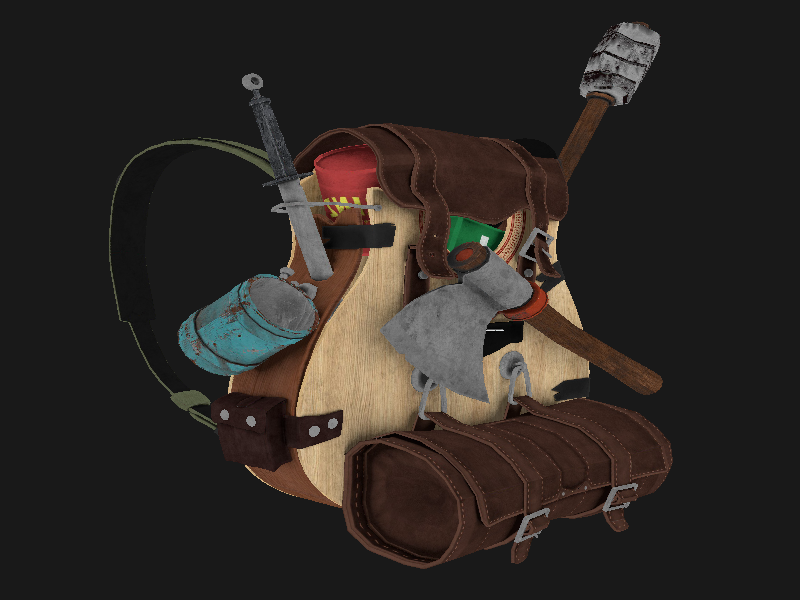
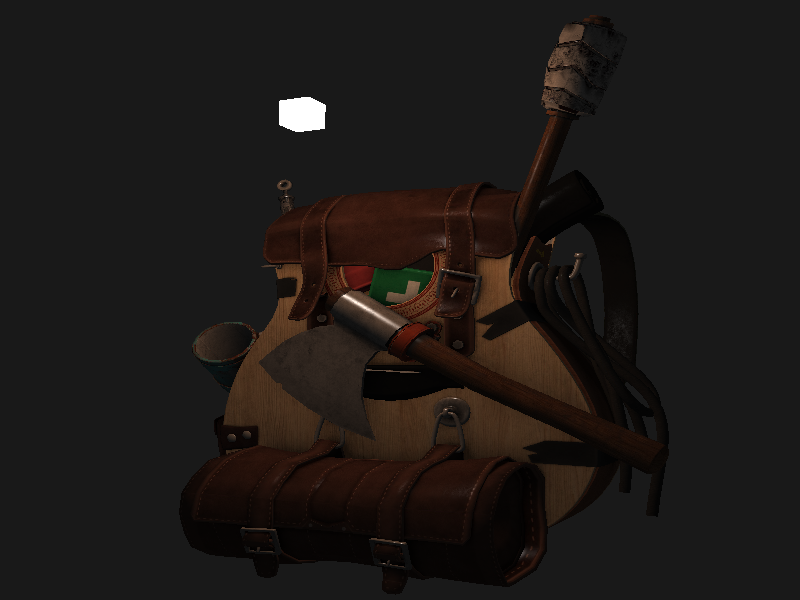
adds light to model scene

Changed region(s): [[0.1875, 0.03, 0.8438, 0.96], [0.3125, 0.87, 0.3438, 0.9], [0.1562, 0.24, 0.1875, 0.27]]

diff --git a/internal/scenes/model_loading.go b/internal/scenes/model_loading.go
@@ -3,6 +3,7 @@ package scenes
 import (
 	"fmt"
 	"log"
+	"math"
 
 	"github.com/go-gl/gl/v4.1-core/gl"
 	"github.com/go-gl/glfw/v3.3/glfw"
@@ -84,9 +85,74 @@ func (s ModelLoading) Show() {
 		panic(err)
 	}
 
+	lightCubeShader, err := shader.New("internal/assets/shaders/light_colors_cube.vert", "internal/assets/shaders/light_colors_cube.frag")
+	if err != nil {
+		panic(err)
+	}
+
+	var vertices = []float32{
+		// x y z          normals         texture coords
+		-0.5, -0.5, -0.5, 0.0, 0.0, -1.0, 0.0, 0.0,
+		0.5, -0.5, -0.5, 0.0, 0.0, -1.0, 1.0, 0.0,
+		0.5, 0.5, -0.5, 0.0, 0.0, -1.0, 1.0, 1.0,
+		0.5, 0.5, -0.5, 0.0, 0.0, -1.0, 1.0, 1.0,
+		-0.5, 0.5, -0.5, 0.0, 0.0, -1.0, 0.0, 1.0,
+		-0.5, -0.5, -0.5, 0.0, 0.0, -1.0, 0.0, 0.0,
+
+		-0.5, -0.5, 0.5, 0.0, 0.0, 1.0, 0.0, 0.0,
+		0.5, -0.5, 0.5, 0.0, 0.0, 1.0, 1.0, 0.0,
+		0.5, 0.5, 0.5, 0.0, 0.0, 1.0, 1.0, 1.0,
+		0.5, 0.5, 0.5, 0.0, 0.0, 1.0, 1.0, 1.0,
+		-0.5, 0.5, 0.5, 0.0, 0.0, 1.0, 0.0, 1.0,
+		-0.5, -0.5, 0.5, 0.0, 0.0, 1.0, 0.0, 0.0,
+
+		-0.5, 0.5, 0.5, -1.0, 0.0, 0.0, 1.0, 0.0,
+		-0.5, 0.5, -0.5, -1.0, 0.0, 0.0, 1.0, 1.0,
+		-0.5, -0.5, -0.5, -1.0, 0.0, 0.0, 0.0, 1.0,
+		-0.5, -0.5, -0.5, -1.0, 0.0, 0.0, 0.0, 1.0,
+		-0.5, -0.5, 0.5, -1.0, 0.0, 0.0, 0.0, 0.0,
+		-0.5, 0.5, 0.5, -1.0, 0.0, 0.0, 1.0, 0.0,
+
+		0.5, 0.5, 0.5, 1.0, 0.0, 0.0, 1.0, 0.0,
+		0.5, 0.5, -0.5, 1.0, 0.0, 0.0, 1.0, 1.0,
+		0.5, -0.5, -0.5, 1.0, 0.0, 0.0, 0.0, 1.0,
+		0.5, -0.5, -0.5, 1.0, 0.0, 0.0, 0.0, 1.0,
+		0.5, -0.5, 0.5, 1.0, 0.0, 0.0, 0.0, 0.0,
+		0.5, 0.5, 0.5, 1.0, 0.0, 0.0, 1.0, 0.0,
+
+		-0.5, -0.5, -0.5, 0.0, -1.0, 0.0, 0.0, 1.0,
+		0.5, -0.5, -0.5, 0.0, -1.0, 0.0, 1.0, 1.0,
+		0.5, -0.5, 0.5, 0.0, -1.0, 0.0, 1.0, 0.0,
+		0.5, -0.5, 0.5, 0.0, -1.0, 0.0, 1.0, 0.0,
+		-0.5, -0.5, 0.5, 0.0, -1.0, 0.0, 0.0, 0.0,
+		-0.5, -0.5, -0.5, 0.0, -1.0, 0.0, 0.0, 1.0,
+
+		-0.5, 0.5, -0.5, 0.0, 1.0, 0.0, 0.0, 1.0,
+		0.5, 0.5, -0.5, 0.0, 1.0, 0.0, 1.0, 1.0,
+		0.5, 0.5, 0.5, 0.0, 1.0, 0.0, 1.0, 0.0,
+		0.5, 0.5, 0.5, 0.0, 1.0, 0.0, 1.0, 0.0,
+		-0.5, 0.5, 0.5, 0.0, 1.0, 0.0, 0.0, 0.0,
+		-0.5, 0.5, -0.5, 0.0, 1.0, 0.0, 0.0, 1.0,
+	}
+
+	var vbo uint32
+	gl.GenBuffers(1, &vbo)
+	gl.BindBuffer(gl.ARRAY_BUFFER, vbo)
+	gl.BufferData(gl.ARRAY_BUFFER, len(vertices)*floatSize, gl.Ptr(vertices), gl.STATIC_DRAW)
+
+	var lightCubeVAO uint32
+	gl.GenVertexArrays(1, &lightCubeVAO)
+	gl.BindVertexArray(lightCubeVAO)
+	gl.BindVertexArray(lightCubeVAO)
+
+	// Position attribute
+	gl.VertexAttribPointer(0, 3, gl.FLOAT, false, 8*floatSize, nil)
+	gl.EnableVertexAttribArray(0)
+
 	// Clean up all resources
 	defer func() {
 		modelShader.Delete()
+		lightCubeShader.Delete()
 	}()
 
 	gl.Enable(gl.DEPTH_TEST)
@@ -102,6 +168,7 @@ func (s ModelLoading) Show() {
 		s.deltaTime = currentFrame - s.lastFrame
 		s.lastFrame = currentFrame
 
+		// Draw the 3D model
 		modelShader.Use()
 
 		viewMatrix := s.camera.ViewMatrix()
@@ -112,7 +179,43 @@ func (s ModelLoading) Show() {
 
 		modelMatrix := mgl32.Ident4()
 		modelShader.SetMat4("model", modelMatrix)
+
+		lightPos := mgl32.Vec3{
+			-1.0 + float32(math.Sin(glfw.GetTime())*3.0),
+			0.6,
+			float32(math.Cos(glfw.GetTime()) * 3.0),
+			// 0.0, 2.0, 1.0,
+		}
+
+		modelShader.SetVec3("light.position", lightPos)
+		modelShader.SetVec3("viewPos", s.camera.Position)
+
+		modelShader.SetVec3f("light.ambient", 0.2, 0.2, 0.2)
+		modelShader.SetVec3f("light.diffuse", 0.9, 0.6, 0.4)
+		modelShader.SetVec3f("light.specular", 1.0, 1.0, 1.0)
+		modelShader.SetFloat("light.constant", 1.0)
+		modelShader.SetFloat("light.linear", 0.09)
+		modelShader.SetFloat("light.quadratic", 0.032)
+
 		model3D.Draw(modelShader)
+
+		// Draw the lamp
+		lightCubeShader.Use()
+
+		lightCubeShader.SetMat4("view", viewMatrix)
+		lightCubeShader.SetMat4("projection", projectionMatrix)
+
+		modelMatrix = mgl32.Ident4()
+		translate := mgl32.Translate3D(lightPos.X(), lightPos.Y(), lightPos.Z())
+		modelMatrix = modelMatrix.Mul4(translate)
+		scale := mgl32.Scale3D(0.2, 0.2, 0.2)
+		modelMatrix = modelMatrix.Mul4(scale)
+		lightCubeShader.SetMat4("model", modelMatrix)
+
+		lightCubeShader.SetVec3("lightColor", mgl32.Vec3{1.0, 1.0, 1.0})
+
+		gl.BindVertexArray(lightCubeVAO)
+		gl.DrawArrays(gl.TRIANGLES, 0, 36)
 
 		window.SwapBuffers()
 		glfw.PollEvents()
